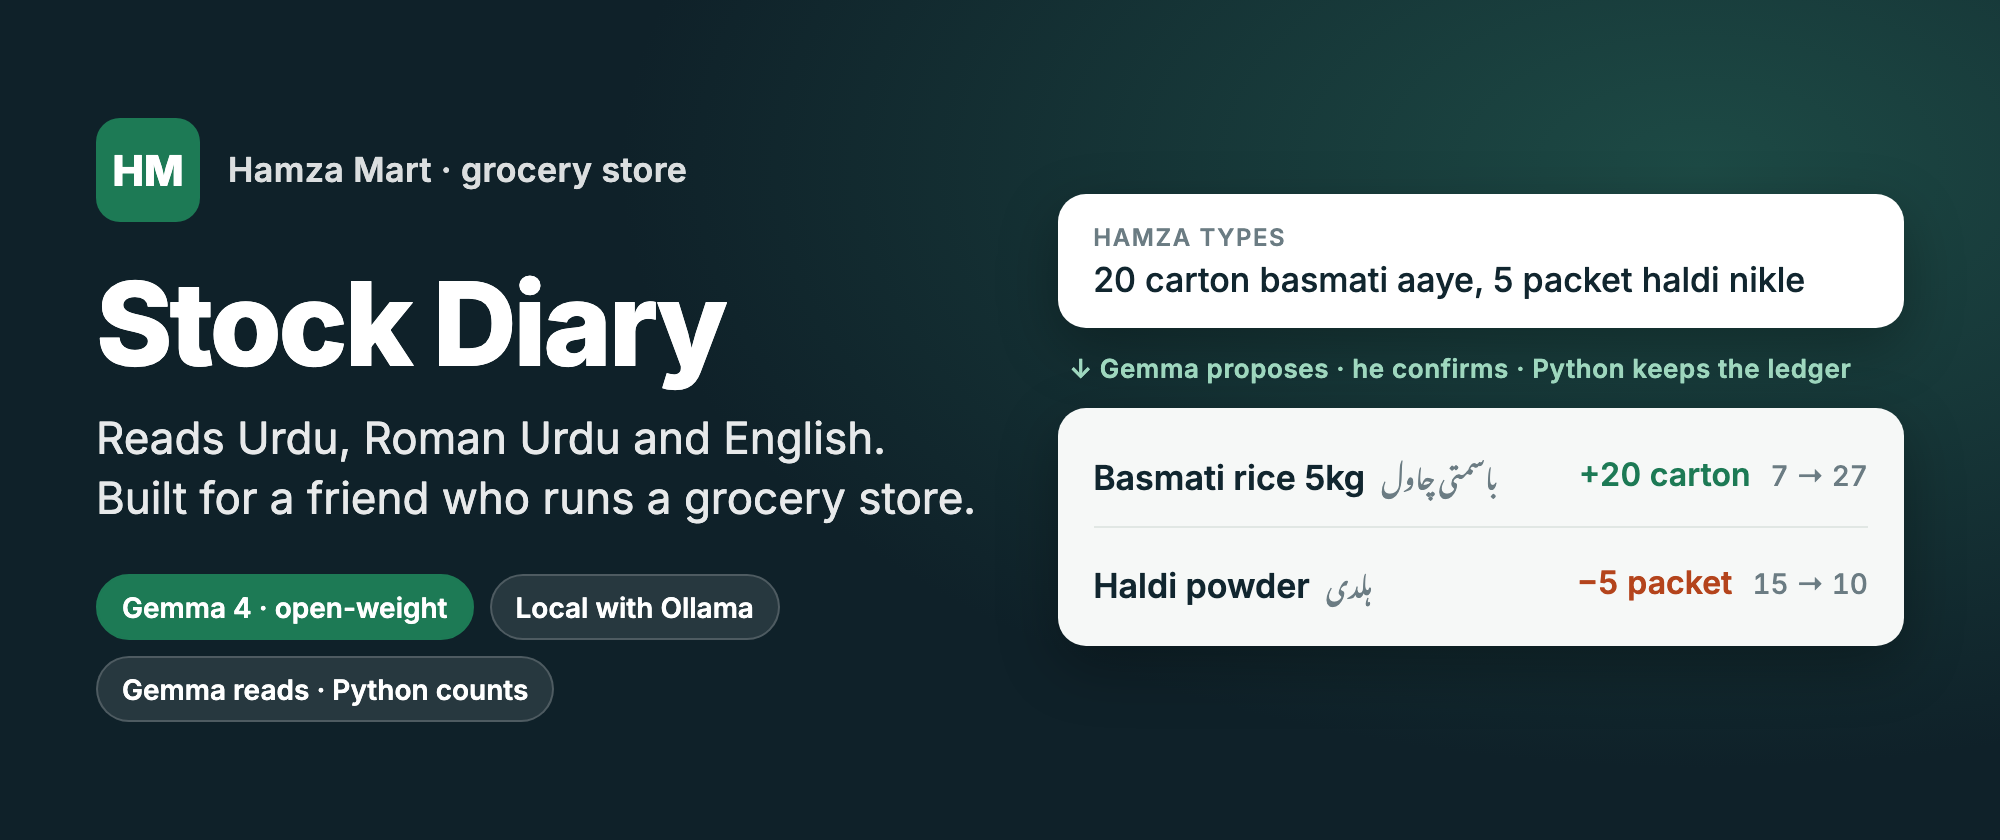
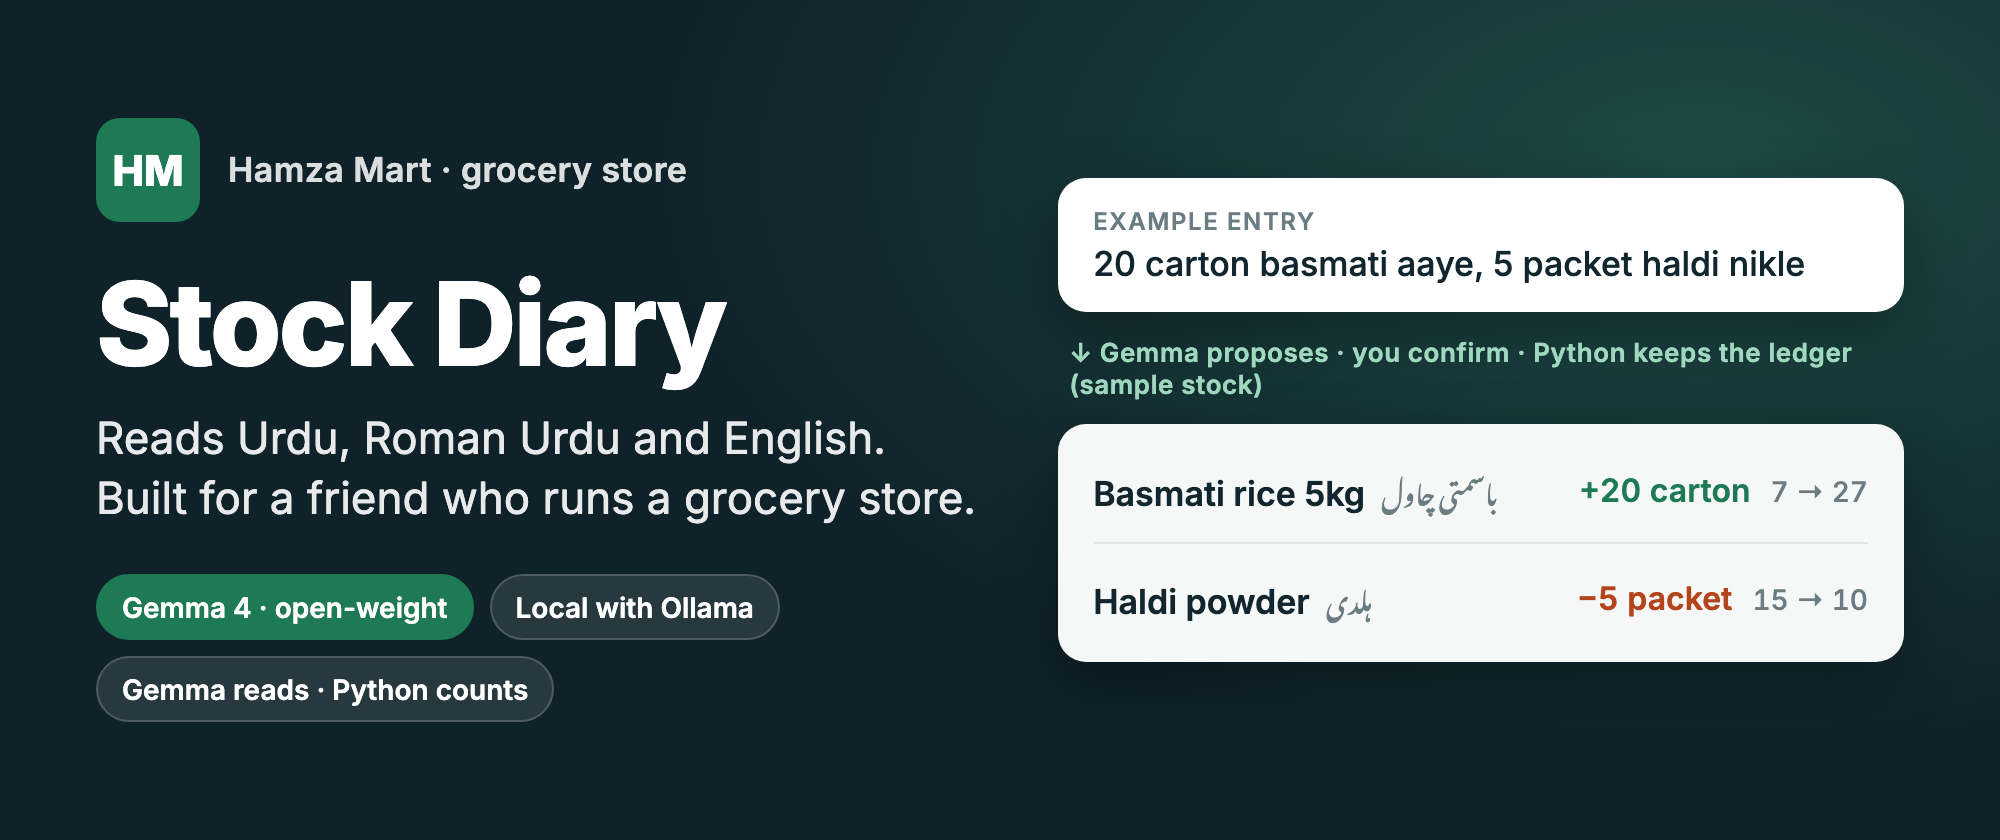
Post: apply Sol review; fix purge claim; cover labels sample data

diff --git a/post.md b/post.md
@@ -9,23 +9,23 @@ cover_image: https://raw.githubusercontent.com/syedjawad11/stock-diary/main/docs
 
 ## What I Built
 
-My friend Hamza owns a grocery store called Hamza Mart. He keeps stock in his head and on paper, and the notes move between Urdu, Roman Urdu, and English. [JAWAD: one sentence on how you know Hamza or a moment you saw him counting stock.]
+My friend Hamza runs Hamza Mart, a grocery store. His stock records live in his head and on paper, in Urdu, Roman Urdu, and English. I wanted to turn those same notes into balances he could check. [JAWAD: one sentence on how you know Hamza or a moment you saw him counting stock.]
 
-I built Stock Diary so he can record stock in the language he already uses. He can type, “20 carton basmati aaye, 5 packet haldi nikle,” and see proposed movements: which product, how many, which unit, and whether stock came in or went out. The proposal also shows the balance before and after. He can edit it or confirm it. Nothing is saved until he confirms.
+Stock Diary turns “20 carton basmati aaye, 5 packet haldi nikle” (“20 cartons of basmati came in, 5 packets of turmeric went out”) into two proposed stock movements. Each shows the product, quantity, unit, direction, and the balance before and after. He can correct the proposal before confirming it. Nothing is saved until he confirms.
 
 That confirmation matters. A plausible sentence is not a reliable stock entry if the unit is wrong. If Hamza writes “5 bori laal mirch” but chilli is counted in packets, Stock Diary stops the entry until he picks the right unit. It also stops an outgoing movement of five when only three are left. The model helps read the sentence; plain Python checks the numbers and posts the confirmed movement to a SQLite ledger.
 
-He can ask “kis cheez ka stock kam hai?” for low stock, “kal kya mangwana hai?” for a reorder list, or ask for one product's balance or today's movements. The reorder list gives the minimum quantity needed to clear each low-stock alert. It is not a sales forecast. For tasks that need no language interpretation, he can add or remove stock manually, add his own products, search, and filter for Low or Out items. The interface also has a full Urdu layout with right-to-left text, dark mode, and a phone-sized view.
+He can also ask “kis cheez ka stock kam hai?” (“What is running low?”) or “kal kya mangwana hai?” (“What should I order tomorrow?”). Gemma only works out which question he is asking; Python answers from the ledger. The reorder list gives the minimum needed to clear each low-stock alert, not a forecast. Manual entries and new products cover the everyday work, with a full Urdu interface (right to left) and a layout that fits a phone.
 
 I built this from what I know of how Hamza works, not from a session with him. He has not used it yet, and the handover is pending. All stock figures in the public demo are sample data, not Hamza Mart's real stock.
 
 ## Demo
 
-Try the [live Stock Diary demo](https://stock-diary-lscy.onrender.com). It runs on Render's free plan, so the first load after a period of inactivity can take about a minute. The video shows the hosted and local Gemma backends running the same app code.
+Try the [live Stock Diary demo](https://stock-diary-lscy.onrender.com): enter the sentence above, check the proposed balances, then confirm and look at the updated stock. Try “5 bori laal mirch aayi” to see the unit warning. Render's free plan can take about a minute to wake after inactivity. The video shows hosted and local Gemma running the same app code.
 
 {% embed VIDEO_URL %}
 
-The public demo gives each visitor a separate sandbox through a signed cookie. You can reset yours. Sandboxes are purged after 24 hours, and each visitor is limited to five model calls per minute and 30 per day, with a global daily cap as well. These limits keep the demo inside Cloudflare's free allowance.
+Each browser gets a separate sandbox with a reset button. AI requests are limited to five per minute and 30 per day per visitor, with extra per-IP and global daily limits. These keep usage low; they don't guarantee the demo stays inside Cloudflare's free allowance.
 
 ## Code
 
@@ -58,13 +58,15 @@ After that change, the hosted model completed all 12 test cases in roughly one t
 
 The rest of the stack is FastAPI, Pydantic, SQLite, uvicorn, httpx, pytest, and a vanilla JavaScript frontend. Render serves the backend and frontend; I triggered deploys through the Render API. There are 42 pytest tests, and GitHub Actions runs them on Python 3.9 and 3.12 on every push.
 
-The checks caught more than parsing mistakes. A review of the code found that editing a quantity could bypass the unit warning, that an insufficient-stock error could hide a unit mismatch, and that resetting a sandbox during a parse could return a server error. I fixed those cases with tests. A browser click-through at phone and desktop widths caught two frontend issues, which I also fixed. The demo video was recorded with Playwright, and I generated its narration with ElevenLabs.
+The checks caught more than parsing mistakes. A review of the code found that editing a quantity could bypass the unit warning, that an insufficient-stock error could hide a unit mismatch, and that resetting a sandbox during a parse could return a server error. I fixed the frontend unit-warning logic and added API regression tests for the mismatch response and for a reset during a parse. A browser click-through at phone and desktop widths caught two frontend issues, which I also fixed. The demo video was recorded with Playwright, and I generated its narration with ElevenLabs.
 
 ## Why Does Open Innovation Matter?
 
-A small grocery store cannot assume it can pay a per-call model bill indefinitely. An open-weight model can run on a laptop Hamza already owns, with no model subscription. Local inference also means his stock entries can stay on that machine. His stock is his business information, and the app should give him a way to keep it at the shop.
+A small grocery store can't plan around a per-call model bill. Open weights give Stock Diary a local option: I ran Gemma 4 through Ollama on my 16 GB MacBook with no cloud keys at all. That shows a working alternative to paying a provider for every entry. It doesn't yet tell me what hardware Hamza would need, and that's part of the handover.
 
-The hosted demo does send model requests to Cloudflare's servers. I chose that route so people can try the app in a browser. The model itself is open-weight, and the local Ollama route is the part that lets the same product work without a cloud model provider. Switching `MODEL_BACKEND` moves between those routes without rewriting the stock workflow. If a host changes its prices or stops serving the model, that local path still exists.
+His stock is his business information. The public demo sends requests to Cloudflare so anyone can try it in a browser, but in a local setup every entry stays on the machine running the app. Both routes go through the same model adapter and the same stock workflow, so switching `MODEL_BACKEND` changes the inference provider without touching the ledger. If a host changes its prices or stops serving the model, the local path still works.
+
+The code is MIT-licensed, so another shop can adapt the catalogue, the product aliases and the interface for its own stock.
 
 Open weights also let me test the language Hamza actually uses: Roman Urdu mixed with English and Urdu script. A rigid stock form would make him translate his own notes into the software's categories before recording them. Here the model proposes the interpretation, but the review screen and Python checks keep that flexibility from silently changing a balance.
 
@@ -85,7 +87,7 @@ I did not record a DevRelay session. The repository keeps the [task briefs and r
 
 - **Best Use of Gemma:** Gemma is the only runtime AI and runs both locally through Ollama and on Cloudflare Workers AI.
 - **Best Use of Render:** Render hosts the FastAPI backend and frontend that call Gemma for the public demo.
-- **Best Use of GitHub Copilot:** GitHub Actions runs all 42 tests on Python 3.9 and 3.12 on every push, so a broken ledger can't reach the live demo unnoticed.
+- **Best Use of GitHub Copilot:** GitHub Actions runs all 42 tests on Python 3.9 and 3.12 on every push, so a ledger regression shows up on the commit that caused it.
 - **Best Use of ElevenLabs:** ElevenLabs generated the narration for the demo video.
 
 Next I want to hand Stock Diary to Hamza and see how it fits a real day at Hamza Mart. If he wants it, voice input in Urdu is the next feature I would try. If you have built a tool for a shopkeeper, how did you handle notes that switch between scripts and product names?

diff --git a/README.md b/README.md
@@ -64,8 +64,8 @@ day per IP, 400 per day across the whole demo. Manual stock changes don't
 count. Limits are in memory, so a server restart clears them.
 
 The public demo uses a synthetic catalogue only. Each visitor gets an
-isolated sandbox (signed cookie) with a reset button; sandboxes purge after
-24 hours.
+isolated sandbox (signed cookie) with a reset button. Pressing Reset also
+deletes sandboxes that have been inactive for more than 24 hours.
 
 ## Credits
 
